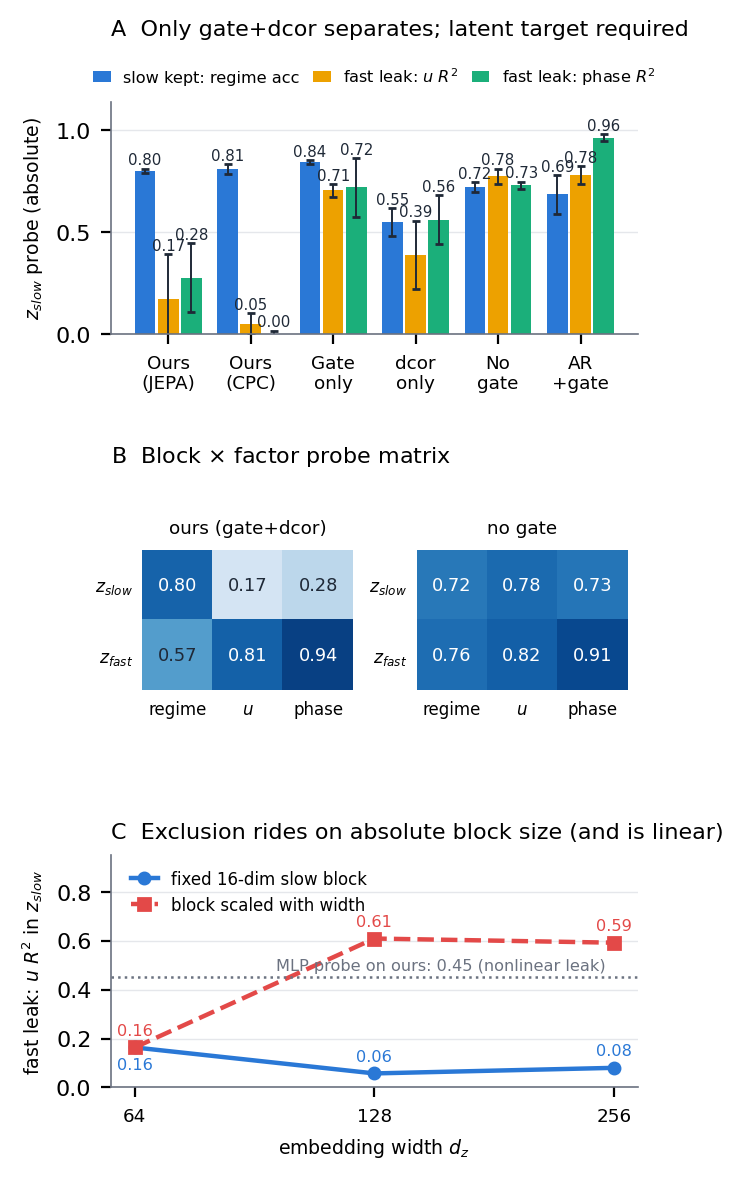
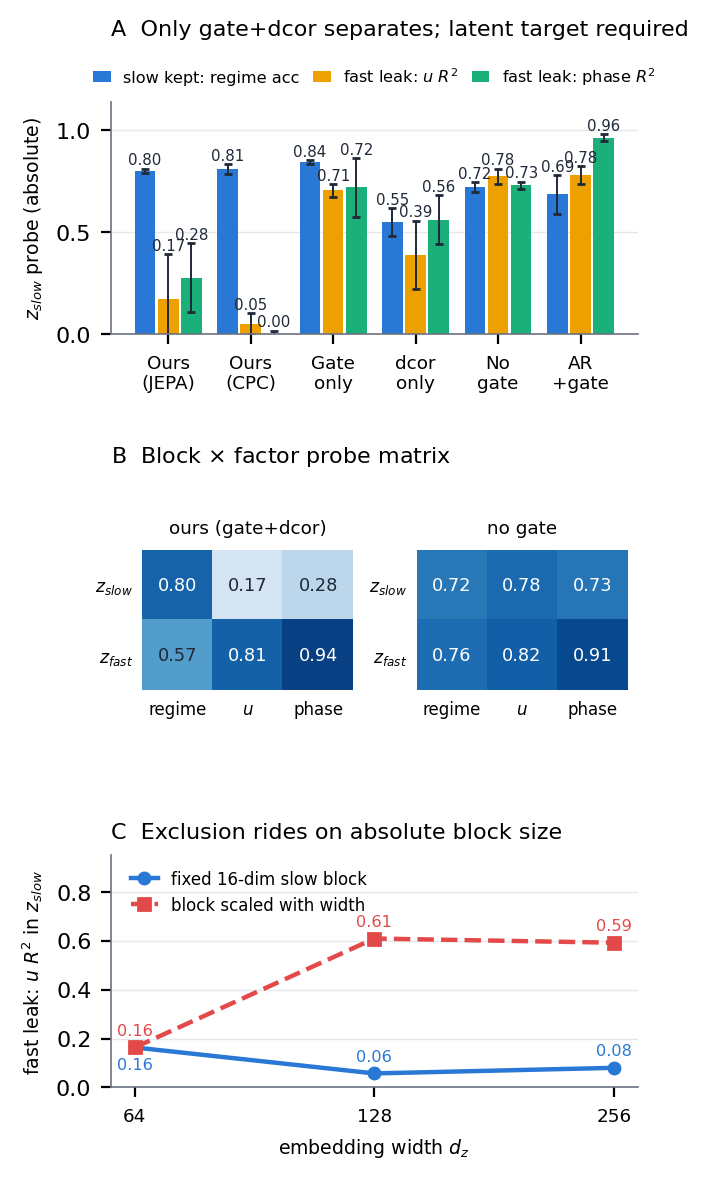
fig_mech C: remove MLP nonlinear-leak dotted line
Panel C now carries only the width-sweep message; the nonlinear-probe
caveat lives in text (extended report F4 / compact report limitations).
Captions updated in both reports.

diff --git a/figures_paper.py b/figures_paper.py
@@ -182,11 +182,6 @@ for z, f, p in zip(dz, fixed, prop):
             fontsize=5.8, color=BLUE)
     a2.text(z, p["z_slow->u"][0] + 0.05, f"{p['z_slow->u'][0]:.2f}", ha="center",
             fontsize=5.8, color=RED)
-nl = stats("runs/nl_nepa_g1_d1_s*_tau16_ds16_lam4.json")
-a2.axhline(nl["mlp_z_slow->u_r2"][0], color=MUTED, lw=0.9, ls=":")
-a2.text(250, nl["mlp_z_slow->u_r2"][0] + 0.03,
-        f"MLP probe on ours: {nl['mlp_z_slow->u_r2'][0]:.2f} (nonlinear leak)",
-        fontsize=5.8, color=MUTED, ha="right")
 a2.set_xscale("log", base=2); a2.set_xticks(dz, [str(z) for z in dz], fontsize=6.6)
 a2.set_xlabel("embedding width $d_z$", fontsize=6.8)
 a2.set_ylabel("fast leak: $u$ $R^2$ in $z_{slow}$", fontsize=6.8)
@@ -194,7 +189,7 @@ a2.set_ylim(0, 0.95)
 a2.legend(fontsize=6.0, frameon=False, loc="upper left",
           bbox_to_anchor=(0.01, 1.0), handlelength=1.6)
 style(a2)
-a2.set_title("C  Exclusion rides on absolute block size (and is linear)",
+a2.set_title("C  Exclusion rides on absolute block size",
              fontsize=8, loc="left")
 fig.savefig("fig_mech.pdf", bbox_inches="tight")
 fig.savefig("fig_mech.png", bbox_inches="tight")

diff --git a/report_3p.tex b/report_3p.tex
@@ -103,8 +103,8 @@ injections). A TCL-style uniqueness theorem remains open.
 \caption{\small \textbf{Mechanism (synthetic, leak-free, 3 seeds).}
 \textbf{A:} only gate+dcor separates; the latent-contrastive cell (CPC) is
 best; raw-target (AR) fails. \textbf{B:} block$\times$factor matrices.
-\textbf{C:} exclusion tracks \emph{absolute} block size (fixed 16-dim holds
-at $d_z{=}256$); dotted line: nonlinear-probe leak (see limitations).}
+\textbf{C:} exclusion tracks \emph{absolute} block size --- a fixed 16-dim
+block holds at $d_z{=}256$ while a proportionally scaled block leaks.}
 \vspace{-3mm}
 \end{figure}
 

diff --git a/report.tex b/report.tex
@@ -227,8 +227,7 @@ gate all fail. \textbf{B:} block$\times$factor matrices, ours vs.\ no gate:
 the slow factor concentrates in $z_{\mathrm{slow}}$ only under the gate.
 \textbf{C:} exclusion tracks the \emph{absolute} slow-block size --- a fixed
 16-dim block holds at $d_z{=}256$ while a proportionally scaled block leaks
---- and is linear-level: an MLP probe still recovers $u$ at $R^2\,0.45$
-(dotted), consistent with Proposition~2.}
+(the nonlinear-probe caveat is quantified in F4).}
 \vspace{-3mm}
 \end{figure}
 
